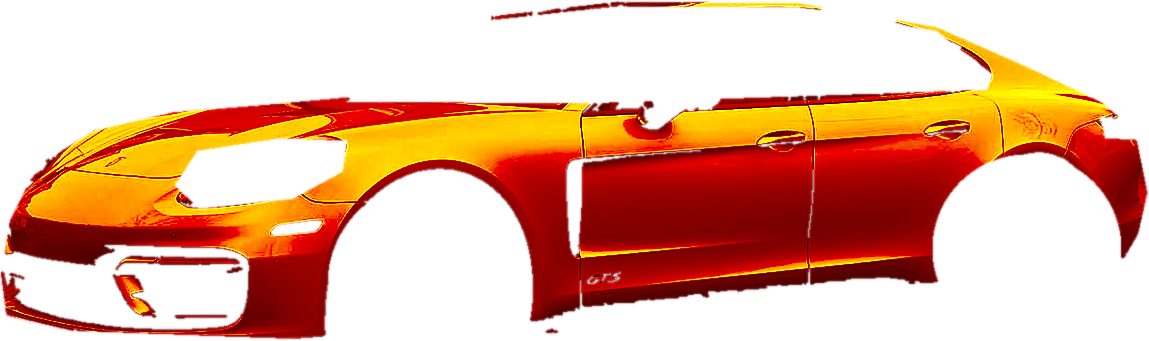
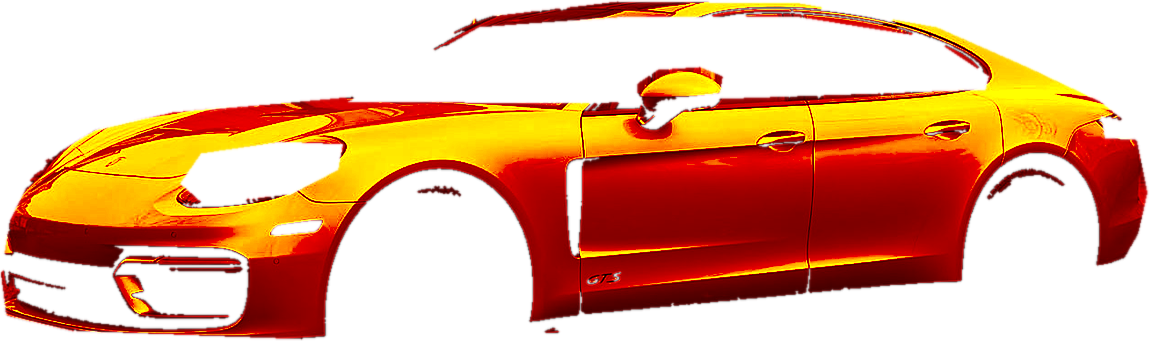
Wrap visualizer: live full-body color change on two real cars (sport sedan, SUV) with finish picker
Claude-Session: https://claude.ai/code/session_01TC8hHsQGEZ2GaHBM8k3cGS

diff --git a/main.js b/main.js
@@ -29,48 +29,30 @@ function arrowNav(buttons, select) {
   });
 }
 
-// Caliper picker: repaints the 3D caliper (caliper-3d.js) and swaps the real photo
-const caliperView = document.getElementById('caliper-view');
-const caliperImg = document.getElementById('caliper-img');
-const colorName = document.getElementById('color-name');
-const colorButtons = Array.from(document.querySelectorAll('.color-picker button'));
-const customColor = document.getElementById('custom-color');
-const customSwatch = customColor && customColor.closest('.custom-swatch');
-const modeButtons = Array.from(document.querySelectorAll('.cv-mode button'));
-const viewer = () => window.CaliperViewer;
-let presetColor = 'red';
-
-// Live repaint of the calipers in real shop photos, one per vehicle.
+// ---------------------------------------------------------------------------------------------
+// Live repaint of real shop photos (calipers and wraps share this).
 // Each *-shade.png is cut from its photo: R = how brightly the paint is lit, G = white highlights
-// on top, alpha = the caliper outline. Any color is lit by that photo's own light.
-// box = where the shade layer sits in the 1200x900 photo: [x, y, width, height].
+// on top, alpha = the painted area. Any color is lit by that photo's own light.
+// box = where the shade layer sits in the photo: [x, y, width, height]; size defaults to 1200x900.
 // Bump ASSET_V whenever a photo or shade layer changes, so phones never pair a cached old
 // photo with a new shade layer (that is what makes the repaint look shifted).
-const ASSET_V = '20261109e';
-const VEHICLES = {
-  sports:  { img: 'assets/img/caliper-sports.webp?v=' + ASSET_V,  shade: 'assets/img/caliper-sports-shade.png?v=' + ASSET_V,  box: [659, 274, 170, 358], alt: 'Black wheel on a red sports car' },
-  sedan:   { img: 'assets/img/caliper-sedan.webp?v=' + ASSET_V,   shade: 'assets/img/caliper-sedan-shade.png?v=' + ASSET_V,   box: [361, 484, 212, 379], size: [1320, 1227], alt: 'Gloss black wheel on a grey sedan' },
-  truck:   { img: 'assets/img/caliper-truck.webp?v=' + ASSET_V,   shade: 'assets/img/caliper-truck-shade.png?v=' + ASSET_V,   box: [710, 346, 72, 165],  alt: 'Gloss black wheel on a grey pickup truck' },
-  closeup: { img: 'assets/img/caliper-closeup.webp?v=' + ASSET_V, shade: 'assets/img/caliper-closeup-shade.png?v=' + ASSET_V, box: [128, 24, 307, 843], alt: 'Close-up of a brake caliper beside a drilled rotor' }
-};
-const paint = (() => {
-  const cv = document.getElementById('caliper-paint');
-  if (!cv || !caliperView || !caliperImg) return null;
-  const ctx = cv.getContext('2d');
-  const toLin = v => Math.pow(v / 255, 2.2);
-  const hexLin = h => { const n = parseInt(h.replace('#', ''), 16); return [n >> 16 & 255, n >> 8 & 255, n & 255].map(toLin); };
-  // finish: how much of the lighting contrast and how much of the shine survive
-  const FIN = { gloss: [1, 1], satin: [0.8, 0.4], matte: [0.6, 0.12] };
-  let lit = null, hi = null, alpha = null, out = null, mean = 0.1, loadId = 0;
-  let cur = hexLin('#CD1620'), goal = cur, fin = FIN.gloss, goalFin = fin, metal = 0, anim = 0;
-  const cache = {};
-  function loadShade(src) {
-    if (!cache[src]) cache[src] = new Promise((res, rej) => { const i = new Image(); i.onload = () => res(i); i.onerror = rej; i.src = src; });
-    return cache[src];
-  }
-  function decode(img) {
-    const t = document.createElement('canvas'); t.width = img.naturalWidth; t.height = img.naturalHeight;
-    const tc = t.getContext('2d'); tc.drawImage(img, 0, 0);
+const ASSET_V = '20261109f';
+const toLin = v => Math.pow(v / 255, 2.2);
+const hexLin = h => { const n = parseInt(h.replace('#', ''), 16); return [n >> 16 & 255, n >> 8 & 255, n & 255].map(toLin); };
+const FIN = { gloss: [1, 1], satin: [0.8, 0.4], matte: [0.6, 0.12] };   // lighting contrast, shine kept
+const shadeCache = {};
+function loadShade(src) {
+  if (!shadeCache[src]) shadeCache[src] = new Promise((res, rej) => { const i = new Image(); i.onload = () => res(i); i.onerror = rej; i.src = src; });
+  return shadeCache[src];
+}
+function createPainter({ view, img, canvas, stage, vehicles, initial, color }) {
+  if (!canvas || !view || !img) return null;
+  const ctx = canvas.getContext('2d');
+  let lit = null, hi = null, alpha = null, out = null, mean = 0.1, loadId = 0, hidden = false;
+  let cur = hexLin(color), goal = cur, fin = FIN.gloss, goalFin = fin, metal = 0, anim = 0;
+  function decode(im) {
+    const t = document.createElement('canvas'); t.width = im.naturalWidth; t.height = im.naturalHeight;
+    const tc = t.getContext('2d'); tc.drawImage(im, 0, 0);
     const d = tc.getImageData(0, 0, t.width, t.height).data, n = d.length / 4;
     lit = new Float32Array(n); hi = new Float32Array(n); alpha = new Uint8ClampedArray(n);
     let sum = 0, cnt = 0;
@@ -79,32 +61,32 @@ const paint = (() => {
       if (alpha[i] > 128) { sum += lit[i]; cnt++; }
     }
     mean = cnt ? sum / cnt : 0.1;
-    cv.width = t.width; cv.height = t.height;
+    canvas.width = t.width; canvas.height = t.height;
     out = ctx.createImageData(t.width, t.height);
   }
-  const stage = document.getElementById('cv-stage');
   function place(v) {
     const [x, y, w, h] = v.box, [W, H] = v.size || [1200, 900];
     if (stage) stage.style.setProperty('--ar', `${W} / ${H}`);
-    caliperImg.width = W; caliperImg.height = H;
-    Object.assign(cv.style, { left: x / W * 100 + '%', top: y / H * 100 + '%', width: w / W * 100 + '%', height: h / H * 100 + '%' });
+    img.width = W; img.height = H;
+    Object.assign(canvas.style, { left: x / W * 100 + '%', top: y / H * 100 + '%', width: w / W * 100 + '%', height: h / H * 100 + '%' });
   }
   async function setVehicle(id, first) {
-    const v = VEHICLES[id]; if (!v) return;
+    const v = vehicles[id]; if (!v) return;
     const my = ++loadId;
-    if (!first) caliperView.classList.add('switching');
+    if (!first) view.classList.add('switching');
     const photo = new Image(); photo.src = v.img;
     const [shadeImg] = await Promise.all([loadShade(v.shade), photo.decode ? photo.decode().catch(() => {}) : null]);
     if (my !== loadId) return;
     await new Promise(r => setTimeout(r, first ? 0 : 120));
     decode(shadeImg); place(v);
-    caliperImg.src = v.img; caliperImg.alt = v.alt;
+    img.src = v.img; img.alt = v.alt;
     render();
-    caliperView.classList.add('paint-ready');
-    caliperView.classList.remove('switching');
+    view.classList.add('paint-ready');
+    view.classList.remove('switching');
   }
   function render() {
     if (!lit) return;
+    canvas.style.visibility = hidden ? 'hidden' : '';
     const o = out.data, [con, shine] = fin, hiGain = shine * (metal ? 1.6 : 1);
     for (let i = 0; i < lit.length; i++) {
       const s = Math.max(0, mean + (lit[i] - mean) * con), h = hi[i] * hiGain;
@@ -126,66 +108,101 @@ const paint = (() => {
     };
     anim = requestAnimationFrame(step);
   }
-  setVehicle('sports', true);
-  // warm the other vehicles once the section is near, so switching is instant
+  setVehicle(initial, true);
+  // warm the other photos once the section is near, so switching is instant
   new IntersectionObserver((es, obs) => {
     if (!es[0].isIntersecting) return;
-    Object.values(VEHICLES).forEach(v => { loadShade(v.shade); const i = new Image(); i.src = v.img; });
+    Object.values(vehicles).forEach(v => { loadShade(v.shade); const i = new Image(); i.src = v.img; });
     obs.disconnect();
-  }, { rootMargin: '400px' }).observe(caliperView);
+  }, { rootMargin: '400px' }).observe(view);
   return {
     setVehicle,
-    setColor(hex, opts = {}) { goal = hexLin(hex).map(v => opts.metallic ? v * 0.7 : v); metal = opts.metallic ? 1 : 0; animate(); },
+    showOriginal(on) { hidden = on; render(); },
+    setColor(hex, opts = {}) { hidden = false; goal = hexLin(hex).map(v => opts.metallic ? v * 0.7 : v); metal = opts.metallic ? 1 : 0; animate(); },
     setFinish(name) { goalFin = FIN[name] || FIN.gloss; animate(); }
   };
-})();
+}
+const asset = (name) => `assets/img/${name}?v=${ASSET_V}`;
 
-const vehicleButtons = Array.from(document.querySelectorAll('.vehicle-picker button'));
-arrowNav(vehicleButtons, btn => {
-  vehicleButtons.forEach(b => b.setAttribute('aria-checked', String(b === btn)));
-  if (paint) paint.setVehicle(btn.dataset.vehicle);
-  setMode('photo');
-});
+// Wire one section's pickers (vehicle, color swatches, custom color, finish) to its painter.
+function wirePickers(section, painter, { onColor, onFinish, onVehicle } = {}) {
+  if (!section) return;
+  const colorName = section.querySelector('.color-name');
+  const colorButtons = Array.from(section.querySelectorAll('.color-picker button'));
+  const custom = section.querySelector('.custom-swatch input');
+  const customSwatch = custom && custom.closest('.custom-swatch');
+  const vehicleButtons = Array.from(section.querySelectorAll('.vehicle-picker button'));
+  const finishButtons = Array.from(section.querySelectorAll('.finish-picker button'));
+  arrowNav(vehicleButtons, btn => {
+    vehicleButtons.forEach(b => b.setAttribute('aria-checked', String(b === btn)));
+    if (painter) painter.setVehicle(btn.dataset.vehicle);
+    if (onVehicle) onVehicle(btn);
+  });
+  arrowNav(colorButtons, btn => {
+    colorButtons.forEach(b => b.setAttribute('aria-checked', String(b === btn)));
+    if (customSwatch) customSwatch.classList.remove('is-active');
+    if (colorName) colorName.textContent = btn.textContent.trim();
+    if (btn.dataset.original === 'true') { if (painter) painter.showOriginal(true); return; }
+    const hex = getComputedStyle(btn).getPropertyValue('--c').trim(), opts = { metallic: btn.dataset.metallic === 'true' };
+    if (painter) painter.setColor(hex, opts);
+    if (onColor) onColor(hex, opts);
+  });
+  if (custom) {
+    const applyCustom = () => {
+      colorButtons.forEach(b => b.setAttribute('aria-checked', 'false'));
+      customSwatch.classList.add('is-active');
+      customSwatch.style.setProperty('--c', custom.value);
+      if (colorName) colorName.textContent = `Custom ${custom.value.toUpperCase()}`;
+      if (painter) painter.setColor(custom.value);
+      if (onColor) onColor(custom.value, {});
+    };
+    custom.addEventListener('input', applyCustom);
+    custom.addEventListener('change', applyCustom);
+    customSwatch.style.setProperty('--c', custom.value);
+  }
+  arrowNav(finishButtons, btn => {
+    finishButtons.forEach(b => b.setAttribute('aria-checked', String(b === btn)));
+    if (painter) painter.setFinish(btn.dataset.finish);
+    if (onFinish) onFinish(btn.dataset.finish);
+  });
+}
 
+// Calipers: real photos plus the 3D wheel (caliper-3d.js)
+const caliperView = document.getElementById('caliper-view');
+const modeButtons = Array.from(document.querySelectorAll('#caliper-view .cv-mode button'));
+const viewer = () => window.CaliperViewer;
 function setMode(mode) {
   if (!caliperView) return;
   caliperView.dataset.mode = mode;
   modeButtons.forEach(b => b.setAttribute('aria-pressed', String(b.dataset.mode === mode)));
 }
 modeButtons.forEach(b => b.addEventListener('click', () => setMode(b.dataset.mode)));
-
-function setColor(btn) {
-  colorButtons.forEach(b => b.setAttribute('aria-checked', String(b === btn)));
-  if (customSwatch) customSwatch.classList.remove('is-active');
-  const label = btn.textContent.trim();
-  presetColor = btn.dataset.color;
-  colorName.textContent = label;
-  const hex = getComputedStyle(btn).getPropertyValue('--c').trim(), opts = { metallic: btn.dataset.metallic === 'true' };
-  if (viewer()) viewer().setColor(hex, opts);
-  if (paint) paint.setColor(hex, opts);
-}
-arrowNav(colorButtons, setColor);
-
-if (customColor) {
-  const applyCustom = () => {
-    colorButtons.forEach(b => b.setAttribute('aria-checked', 'false'));
-    customSwatch.classList.add('is-active');
-    customSwatch.style.setProperty('--c', customColor.value);
-    colorName.textContent = `Custom ${customColor.value.toUpperCase()}`;
-    if (viewer()) viewer().setColor(customColor.value);
-    if (paint) paint.setColor(customColor.value); else setMode('3d');
-  };
-  customColor.addEventListener('input', applyCustom);
-  customColor.addEventListener('change', applyCustom);
-  customSwatch.style.setProperty('--c', customColor.value);
-}
-
-const finishButtons = Array.from(document.querySelectorAll('.finish-picker button'));
-arrowNav(finishButtons, btn => {
-  finishButtons.forEach(b => b.setAttribute('aria-checked', String(b === btn)));
-  if (viewer()) viewer().setFinish(btn.dataset.finish);
-  if (paint) paint.setFinish(btn.dataset.finish); else setMode('3d');
+const caliperPaint = createPainter({
+  view: caliperView, img: document.getElementById('caliper-img'), canvas: document.getElementById('caliper-paint'),
+  stage: document.getElementById('cv-stage'), initial: 'sports', color: '#CD1620',
+  vehicles: {
+    sports:  { img: asset('caliper-sports.webp'),  shade: asset('caliper-sports-shade.png'),  box: [659, 274, 170, 358], alt: 'Black wheel on a red sports car' },
+    sedan:   { img: asset('caliper-sedan.webp'),   shade: asset('caliper-sedan-shade.png'),   box: [361, 484, 212, 379], size: [1320, 1227], alt: 'Gloss black wheel on a grey sedan' },
+    truck:   { img: asset('caliper-truck.webp'),   shade: asset('caliper-truck-shade.png'),   box: [710, 346, 72, 165],  alt: 'Gloss black wheel on a grey pickup truck' },
+    closeup: { img: asset('caliper-closeup.webp'), shade: asset('caliper-closeup-shade.png'), box: [128, 24, 307, 843], alt: 'Close-up of a brake caliper beside a drilled rotor' }
+  }
 });
+wirePickers(document.getElementById('calipers'), caliperPaint, {
+  onVehicle: () => setMode('photo'),
+  onColor: (hex, opts) => { if (viewer()) viewer().setColor(hex, opts); },
+  onFinish: f => { if (viewer()) viewer().setFinish(f); }
+});
+
+// Wraps: full-body color change on real cars
+const wrapPaint = createPainter({
+  view: document.getElementById('wrap-view'), img: document.getElementById('wrap-img'), canvas: document.getElementById('wrap-paint'),
+  stage: document.getElementById('wrap-stage'), initial: 'sedan', color: '#C8102E',
+  vehicles: {
+    sedan: { img: asset('wrap-panamera.webp'), shade: asset('wrap-panamera-shade.png'), box: [19, 346, 1149, 341], alt: 'Porsche sport sedan with its body wrapped in the selected color' },
+    suv:   { img: asset('wrap-cayenne.webp'),  shade: asset('wrap-cayenne-shade.png'),  box: [8, 316, 1186, 394], alt: 'Porsche SUV coupe with its body wrapped in the selected color' }
+  }
+});
+wirePickers(document.getElementById('wraps'), wrapPaint);
 
 // Tint picker: film opacity = light the film blocks (1 - VLT)
 const notes = {

diff --git a/index.html b/index.html
@@ -13,7 +13,7 @@
 <meta name="theme-color" content="#1D2125">
 <link rel="icon" href="assets/img/favicon.png">
 <link rel="preload" href="assets/fonts/michroma-400.woff2" as="font" type="font/woff2" crossorigin>
-<link rel="stylesheet" href="styles.css?v=202611091810">
+<link rel="stylesheet" href="styles.css?v=202611091850">
 <script type="application/ld+json">
 {
   "@context": "https://schema.org",
@@ -105,16 +105,47 @@
         </ul>
         <a class="btn btn-dark" href="#estimate">Get a wrap estimate</a>
       </div>
-      <div class="finishes">
-        <p class="finishes-intro">Every finish, in hundreds of colors</p>
-        <ul class="swatches">
-          <li><span class="sw sw-gloss" aria-hidden="true"></span>Gloss</li>
-          <li><span class="sw sw-satin" aria-hidden="true"></span>Satin</li>
-          <li><span class="sw sw-matte" aria-hidden="true"></span>Matte</li>
-          <li><span class="sw sw-metallic" aria-hidden="true"></span>Metallic</li>
-          <li><span class="sw sw-shift" aria-hidden="true"></span>Color-shift</li>
-          <li><span class="sw sw-carbon" aria-hidden="true"></span>Carbon fiber</li>
-        </ul>
+      <div class="wrap-tool">
+        <div class="caliper-view wrap-view" id="wrap-view">
+          <div class="cv-stage" id="wrap-stage">
+            <img id="wrap-img" src="assets/img/wrap-panamera.webp?v=20261109f" alt="Porsche sport sedan with its body wrapped in the selected color" width="1200" height="900" loading="lazy">
+            <canvas id="wrap-paint" width="1149" height="342" aria-hidden="true"></canvas>
+          </div>
+          <p class="cv-photo-note">Real car, rewrapped live</p>
+        </div>
+        <div class="wrap-controls">
+          <div>
+            <p class="picker-label" id="wrap-vehicle-label">Vehicle</p>
+            <div class="vehicle-picker" role="radiogroup" aria-labelledby="wrap-vehicle-label">
+              <button role="radio" aria-checked="true" data-vehicle="sedan">Sport sedan</button>
+              <button role="radio" aria-checked="false" data-vehicle="suv">SUV</button>
+            </div>
+          </div>
+          <div>
+            <p class="picker-label" id="wrap-finish-label">Finish</p>
+            <div class="finish-picker" role="radiogroup" aria-labelledby="wrap-finish-label">
+              <button role="radio" aria-checked="true" data-finish="gloss">Gloss</button>
+              <button role="radio" aria-checked="false" data-finish="satin">Satin</button>
+              <button role="radio" aria-checked="false" data-finish="matte">Matte</button>
+            </div>
+          </div>
+        </div>
+        <p class="picker-label" id="wrap-color-label">Wrap color</p>
+        <div class="color-picker" role="radiogroup" aria-labelledby="wrap-color-label">
+          <button role="radio" aria-checked="false" data-original="true" class="sw-original"><span class="sr-only">Factory paint</span></button>
+          <button role="radio" aria-checked="true" style="--c:#C8102E"><span class="sr-only">Gloss red</span></button>
+          <button role="radio" aria-checked="false" style="--c:#7E8388"><span class="sr-only">Nardo grey</span></button>
+          <button role="radio" aria-checked="false" style="--c:#1E9BD7"><span class="sr-only">Miami blue</span></button>
+          <button role="radio" aria-checked="false" style="--c:#0F4D32"><span class="sr-only">British racing green</span></button>
+          <button role="radio" aria-checked="false" style="--c:#4B2A7B"><span class="sr-only">Midnight purple</span></button>
+          <button role="radio" aria-checked="false" style="--c:#161618"><span class="sr-only">Black</span></button>
+          <label class="custom-swatch" title="Pick any color">
+            <input type="color" value="#E07A1F">
+            <span class="sr-only">Custom wrap color</span>
+          </label>
+        </div>
+        <p class="color-name" aria-live="polite">Gloss red</p>
+        <p class="wrap-more">Plus metallic, color-shift and carbon fiber, in hundreds of colors.</p>
       </div>
     </div>
   </section>
@@ -124,7 +155,7 @@
       <div class="caliper-view" id="caliper-view" data-mode="photo">
         <canvas id="caliper-canvas" tabindex="0" role="img" aria-label="3D model of a wheel and brake caliper in the selected color. Drag, or use the arrow keys, to change the angle."></canvas>
         <div class="cv-stage" id="cv-stage">
-          <img id="caliper-img" src="assets/img/caliper-sports.webp?v=20261109e" alt="Black wheel on a red sports car" width="1200" height="900" loading="lazy">
+          <img id="caliper-img" src="assets/img/caliper-sports.webp?v=20261109f" alt="Black wheel on a red sports car" width="1200" height="900" loading="lazy">
           <canvas id="caliper-paint" width="193" height="347" aria-hidden="true"></canvas>
         </div>
         <p class="cv-hint" aria-hidden="true"><span class="cv-hint-icon"></span>Drag to rotate</p>
@@ -373,6 +404,6 @@
 </footer>
 
 <script src="caliper-3d.js?v=202611091725" defer></script>
-<script src="main.js?v=202611091840" defer></script>
+<script src="main.js?v=202611091850" defer></script>
 </body>
 </html>

diff --git a/styles.css b/styles.css
@@ -490,3 +490,25 @@ address { font-style: normal; font-weight: 700; font-size: 1.5rem; line-height: 
   .color-picker { gap: 10px; }
   .color-picker button, .custom-swatch { width: 40px; height: 40px; }
 }
+
+/* Wrap visualizer (light section) */
+.wrap-tool { min-width: 0; }
+.wrap-view { background: #DADFE3; }
+.wrap-view .cv-photo-note { display: block; }
+.wrap-view #wrap-paint { display: block; position: absolute; pointer-events: none; }
+.wrap-view:not(.paint-ready) #wrap-paint { display: none; }
+.wrap-view #wrap-img, .wrap-view #wrap-paint { transition: opacity .25s; }
+.wrap-view.switching #wrap-img, .wrap-view.switching #wrap-paint { opacity: 0; }
+.wrap-controls { display: flex; flex-wrap: wrap; gap: 4px 28px; }
+.wraps .picker-label { color: var(--text-mid); margin-top: 20px; }
+.wraps .vehicle-picker button { color: var(--graphite); border-color: rgba(29,33,37,.25); }
+.wraps .vehicle-picker button:hover { border-color: var(--graphite); color: var(--graphite); }
+.wraps .vehicle-picker button[aria-checked="true"] { background: var(--graphite); border-color: var(--graphite); color: var(--pearl); }
+.wraps .finish-picker { border-color: rgba(29,33,37,.2); margin: 0; }
+.wraps .finish-picker button { color: var(--text-mid); }
+.wraps .finish-picker button[aria-checked="true"] { background: var(--graphite); color: var(--pearl); }
+.wraps .color-picker button, .wraps .custom-swatch { border-color: rgba(29,33,37,.18); }
+.wraps .color-picker button[aria-checked="true"], .wraps .custom-swatch.is-active { outline-color: var(--graphite); border-color: var(--graphite); }
+.wraps .color-picker .sw-original { background: linear-gradient(135deg, #f4f5f6 0 49%, #b9bec4 51% 100%); }
+.wraps .color-name { color: var(--graphite); }
+.wrap-more { margin: 6px 0 0; font-size: .95rem; color: var(--text-mid); }
